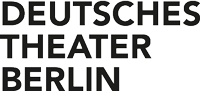
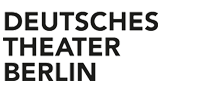
underconstruction update

diff --git a/underconstruction.php b/underconstruction.php
@@ -232,8 +232,8 @@
 			}
 			.logos img{
 				margin-right: 30px;
-				width: 40%;
-				max-width:191px;
+				width: 100%;
+				max-width:230px;
 			}
 			
 		</style>
@@ -269,14 +269,15 @@
 		<hr>
 		<p><span class=italic>Koproduktion des Deutschen Theaters Berlin mit der Stiftung Humboldt Forum im Berliner Schloss, gefördert von der Beauftragten der Bundesregierung für Kultur und Medien aufgrund eines Beschlusses des Deutschen Bundestages.</span></p>
 		<div class=logos>
-		<img src="image0.png" alt="logo">
-		<img src="image1.png" alt="logo">
-		<img src="image2.png" alt="logo">
+		<a href="https://www.deutschestheater.de"><img src="image0.png" alt="logo"></a>
+		<a href="http://humboldtforum.com/de-DE/"><img src="image2.png" alt="logo"></a>
+		<a href="https://www.bundesregierung.de/Webs/Breg/DE/Bundesregierung/BeauftragtefuerKulturundMedien/beauftragte-fuer-kultur-und-medien.html"><img src="image1.png" alt="logo"></a>
 		</div>
-		<p>Medienpartner:</p>
+		<p><span class=italic>Medienpartner:</span></p>
 		<div class=logos>
-		<img src="image3.png" alt="logo">
+		<a href="http://www.deutschlandfunkkultur.de"><img src="image3.png" alt="logo"></a>
 		</div>
+		<br>
 		<hr>
 		
 		
